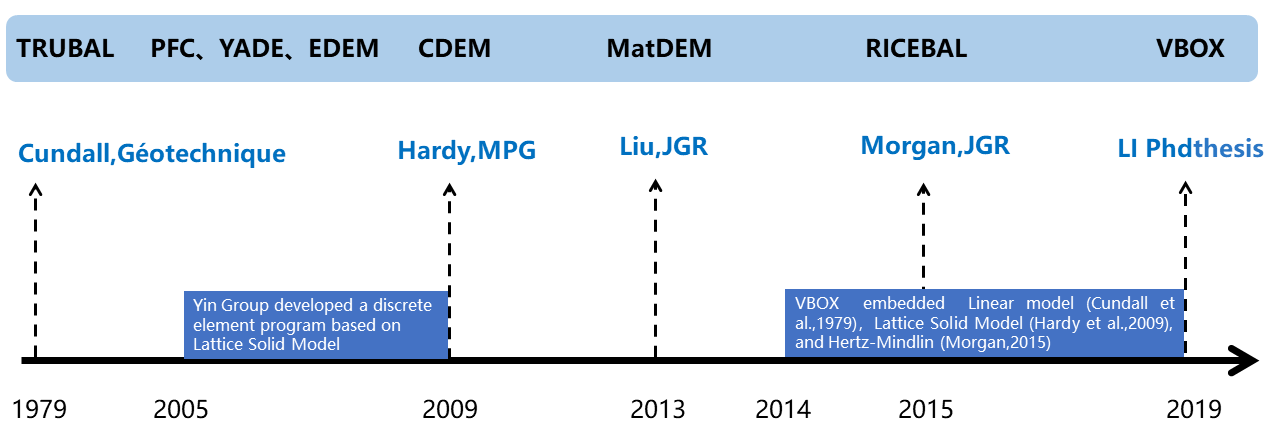
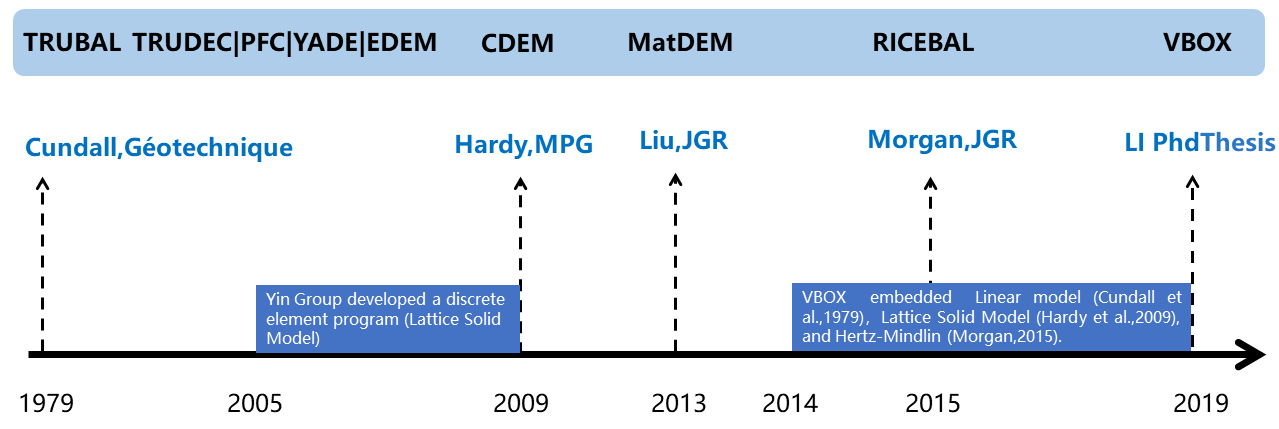
home add 'developed from'

diff --git a/content/download/_index.en.md b/content/download/_index.en.md
@@ -9,7 +9,7 @@ mermaid: true
 ### Windows Users
 Open [Xshell](https://www.netsarang.com), login VBOX cluster ``hpcc.nju.edu.cn``, run
 ```bash
-vboxdaily -v
+vbox -v
 ```
 <!--- **xshell xftp 下载**：-->
 <!--    [xshell xftp](https://www.netsarang.com)-->
@@ -29,7 +29,7 @@ vboxdaily -v
 Open terminal, login VBOX cluster ``hpcc.nju.edu.cn`` , run
 
 ```bash
-vboxdaily -v
+vbox -v
 ```
 {{% /col %}}
 
@@ -45,14 +45,7 @@ vboxdaily -v
 
 ---
 
-{{% notice info %}}
-How to open accounts in the cluster ``hpcc.nju.edu.cn``? See [Open Accounts in HPCC of Nanjing University](https://doc.geovbox.com/1.4/hpc/).  
-How to use the cluster ``hpcc.nju.edu.cn``? See [Run VBOX in cluster ](https://doc.geovbox.com/1.4/use/).
-{{% /notice %}}
-
----
-
-{{< figure src="dems-history.png" title="Important nodes of DEM papers and programs" width="800px" >}}
+{{< figure src="dems-history.png" title="Series and milestones of DEM papers and programs" width="800px" >}}
 
 **During the development of VBOX, We referred to a large number of materials, i.e., Linear model ([Cundall et al.,1979](https://doi.org/10.1680/geot.1979.29.1.47))，Lattice Solid Model ([Hardy et al.,2009](https://doi.org/10.1016/j.marpetgeo.2007.12.003); [Liu et al.,2013]((https://doi.org/10.1029/2012jb009615)) ), and Hertz-Mindlin [Morgan (2015)](http://onlinelibrary.wiley.com/doi/10.1002/2014JB011455/full), [TRUBAL](https://hmakse.ccny.cuny.edu/software-and-data/), [RICEBAL](https://earthscience.rice.edu/directory/user/100), PFC2D users’ manual (Itasca,2004), [YADE](https://yade-dem.org/doc/). If you are using VBOX for numerical simulations, you need to properly cite the appropriate literature.**
 

diff --git a/content/_index.en.md b/content/_index.en.md
@@ -2,7 +2,7 @@
 title = "VBOX"
 +++
 
-`VBOX`, named as`Virtual sandBOX`, is a discrete element software to study the structural deformation.
+`VBOX`, named as`Virtual sandBOX`, is a discrete element software to study the structural deformation. It is a non-commercial software, developed from TRUBAL (Peter Cundall), TRUDEC(WANG YongJia), RICEBAL (Juli Morgan), CDEM(Stuart Hardy) and [YADE](https://yade-dem.org/) for academic purpose. See [details here](/en/download).
 {{< figure src="/example/ex1_push/shearSS.gif" title=""  width="400px" >}}
 <center>[The first example to learn VBOX ](/en/example/ex1_push/)</center>
 
